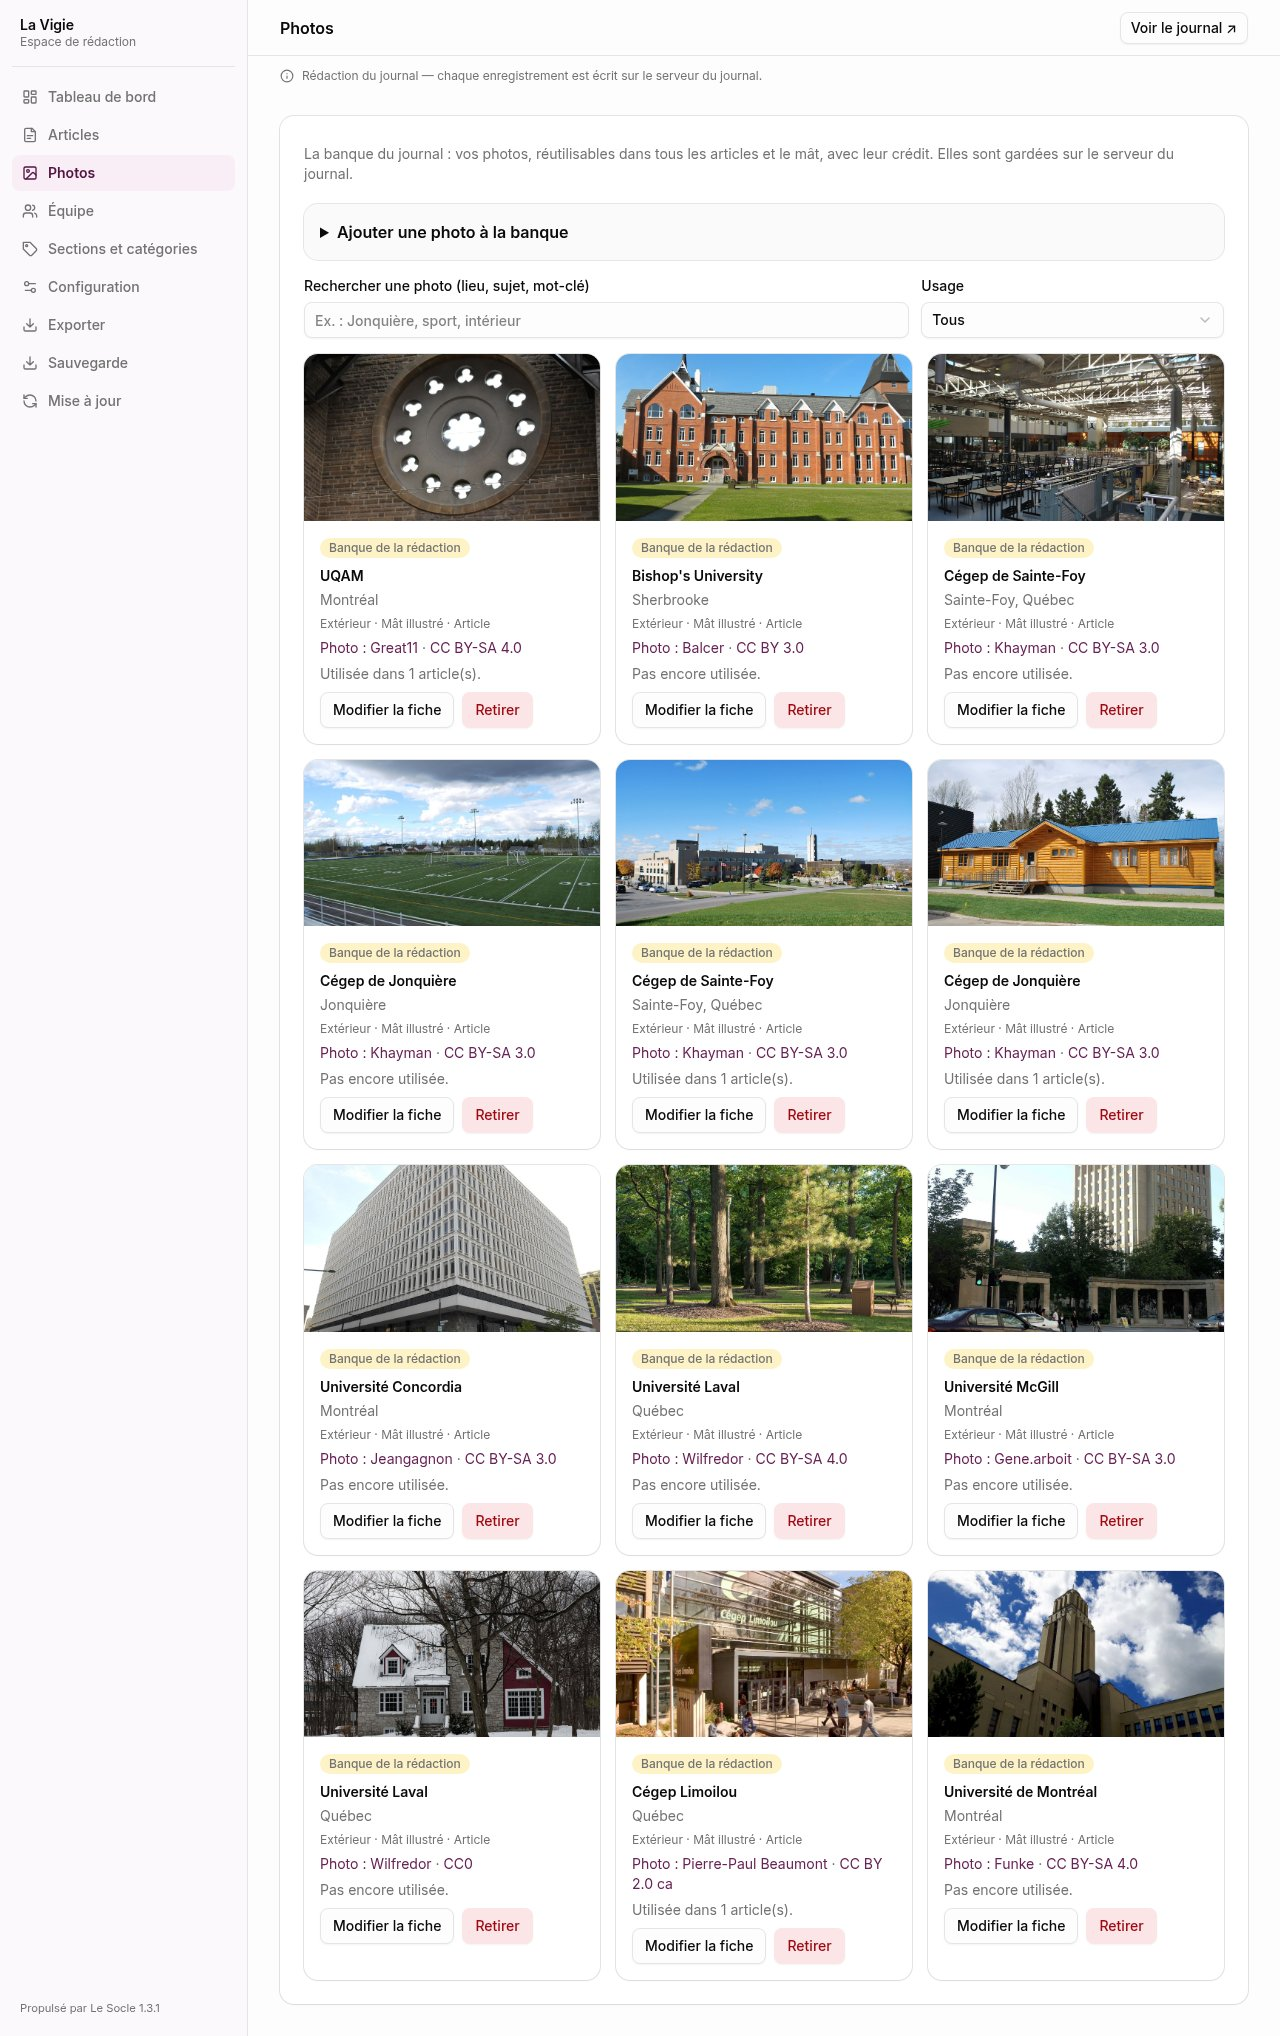
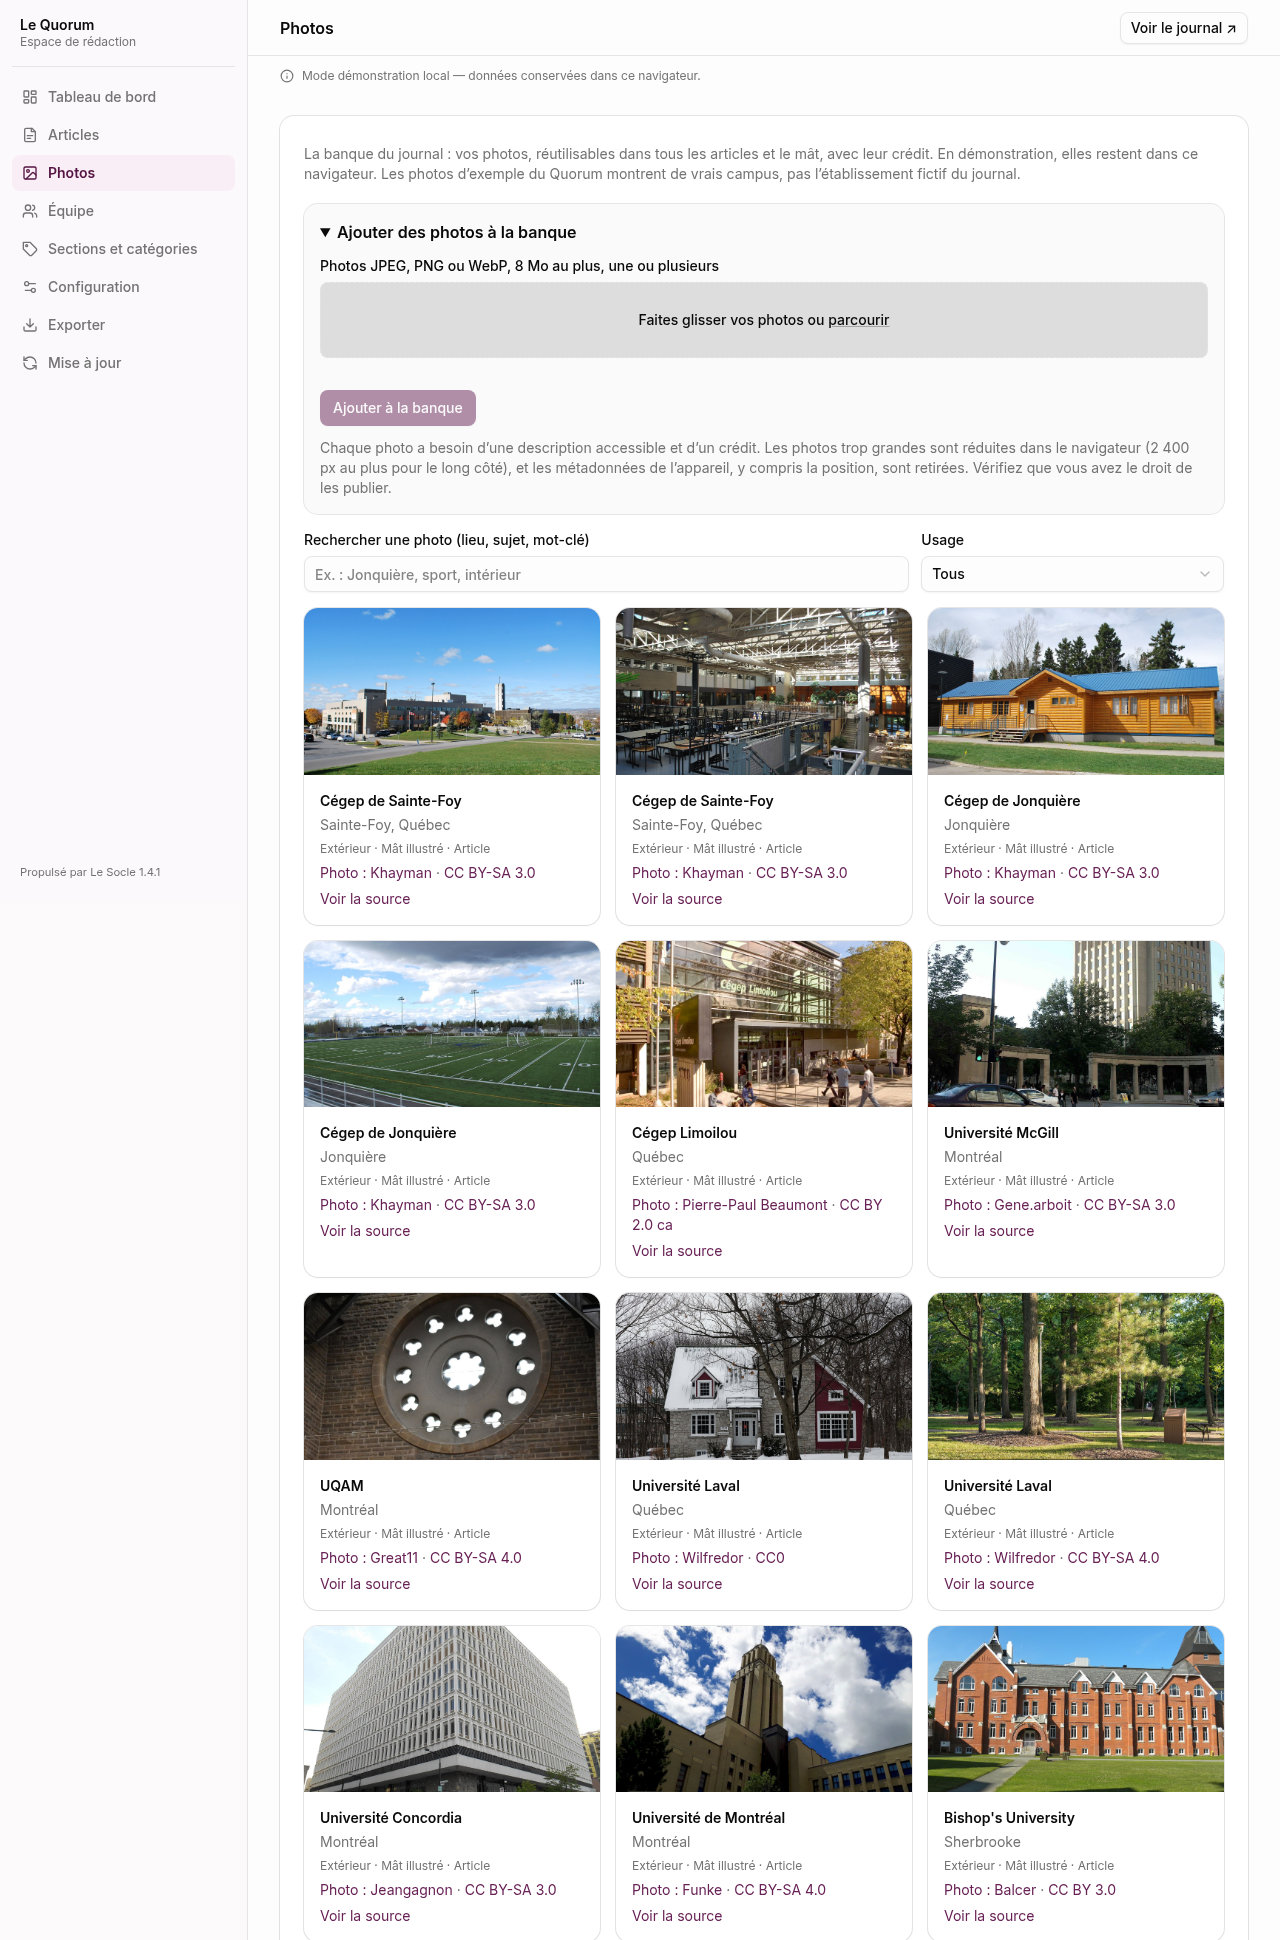
Remplace les captures des pages publiques par des vues fraîches du Quorum
Les images d’accueil, d’article et de l’espace de rédaction viennent de la
démonstration à jour (météo élargie, bandeau sportif, FilePond, Socle 1.4.1).
Les textes de remplacement et le guide parlent du Quorum plutôt que de La Vigie.
Le dossier à déposer chez l’hébergeur est bien kiosque-journal/.

diff --git a/site/index.html b/site/index.html
@@ -70,7 +70,7 @@
         <p class="intro">Il faut un hébergement PHP 8.1 ou plus récent, avec SQLite : le serveur du cégep ou de l’association, un hébergeur habituel, ou un essai gratuit chez alwaysdata. Ni compte GitHub, ni ligne de commande.</p>
         <ol class="steps">
           <li><span class="kbd">1</span><h3>Téléchargez le paquet</h3><p>Un seul fichier, <a href="https://github.com/azdak919/le-kiosque/releases/latest/download/kiosque-journal.zip">kiosque-journal.zip</a>, toujours à la même adresse : la dernière version publiée.</p></li>
-          <li><span class="kbd">2</span><h3>Déposez-le chez l’hébergeur</h3><p>Envoyez le contenu du dossier <code>journal/</code> à la racine de l’espace Web, par exemple dans <code>public_html/</code>. Le site sera à <code>https://votre-journal.com</code>. Un sous-dossier reste possible si vous le souhaitez. Le gestionnaire de fichiers peut souvent extraire le ZIP directement.</p></li>
+          <li><span class="kbd">2</span><h3>Déposez-le chez l’hébergeur</h3><p>Envoyez le contenu du dossier <code>kiosque-journal/</code> à la racine de l’espace Web, par exemple dans <code>public_html/</code>. Le site sera à <code>https://votre-journal.com</code>. Un sous-dossier reste possible si vous le souhaitez. Le gestionnaire de fichiers peut souvent extraire le ZIP directement.</p></li>
           <li><span class="kbd">3</span><h3>Remplissez l’assistant</h3><p>Ouvrez <code>https://votre-journal.com/redaction/</code>. Donnez le nom du journal, les rubriques, un logo au besoin, et créez le compte administrateur.</p></li>
           <li><span class="kbd">4</span><h3>Écrivez, puis publiez</h3><p>L’article paraît tout de suite sur le site. Une sauvegarde se télécharge en un clic ; une mise à jour aussi, quand une version est publiée.</p></li>
         </ol>
@@ -92,6 +92,10 @@
             <figcaption>Le même journal, sur un téléphone.</figcaption>
           </figure>
         </div>
+        <figure class="shot" style="margin-top:1.25rem">
+          <img src="{{BASE_PATH}}/assets/captures/quorum-accueil-sombre.jpg" width="1280" height="800" alt="Page d’accueil du Quorum en mode sombre : mât, barre radio, scores sportifs et fil d’articles." loading="lazy">
+          <figcaption>Le même accueil, en mode sombre.</figcaption>
+        </figure>
         <div class="features">
           <article><h3>Rubriques, recherche et mode sombre</h3><p>Le menu suit les sections du journal. Une loupe cherche dans les titres, les signatures, les rubriques et les extraits déjà affichés. Un bouton passe du mode clair au mode sombre.</p></article>
           <article><h3>Météo, sports et radio</h3><p>Le mât peut afficher la météo locale et les résultats sportifs du campus. La barre radio, facultative, est un module du Radar chargé depuis le-radar.ca : stations, lecteur et style restent chez le Radar.</p></article>
@@ -105,22 +109,22 @@
       <div class="wrap">
         <p class="kicker">L’espace de rédaction</p>
         <h2>Écrire, relire, publier, à plusieurs.</h2>
-        <p class="intro">L’espace de rédaction, c’est le Socle : l’interface d’administration et son serveur, livrés dans le même paquet. Chaque journal installe sa propre copie. Les captures ci-dessous viennent d’un essai, La Vigie, journal étudiant fictif.</p>
+        <p class="intro">L’espace de rédaction, c’est le Socle : l’interface d’administration et son serveur, livrés dans le même paquet. Chaque journal installe sa propre copie. Les captures ci-dessous viennent du Quorum, la démonstration officielle, et de l’assistant d’installation.</p>
         <div class="pair pair--two gallery">
           <figure class="shot shot--tall">
             <img src="{{BASE_PATH}}/assets/captures/assistant-installation.jpg" width="1280" height="1924" alt="Assistant d’installation du journal, avec les champs du nom, des rubriques, de l’apparence et du compte administrateur encore vides." loading="lazy">
             <figcaption>L’assistant d’installation, à la première visite.</figcaption>
           </figure>
           <figure class="shot shot--tall">
-            <img src="{{BASE_PATH}}/assets/captures/editeur-article.jpg" width="1400" height="2312" alt="Formulaire de rédaction d’un article : titre, résumé, rubrique, statut, signatures, photo et texte, avec le bouton Prévisualiser sans publier." loading="lazy">
+            <img src="{{BASE_PATH}}/assets/captures/editeur-article.jpg" width="1400" height="2752" alt="Formulaire de rédaction d’un article du Quorum : titre, résumé, rubrique, statut, signatures, photo principale et texte, avec le bouton Prévisualiser sans publier." loading="lazy">
             <figcaption>L’éditeur d’article, avec un aperçu dans le thème avant publication.</figcaption>
           </figure>
           <figure class="shot shot--tall">
-            <img src="{{BASE_PATH}}/assets/captures/banque-photos.jpg" width="1280" height="2036" alt="Banque de photos de La Vigie, avec crédit et licence sous chaque image." loading="lazy">
+            <img src="{{BASE_PATH}}/assets/captures/banque-photos.jpg" width="1280" height="1940" alt="Banque de photos du Quorum, avec crédit et licence sous chaque image." loading="lazy">
             <figcaption>La banque de photos : crédit obligatoire, licence affichée, réemploi dans tout le journal.</figcaption>
           </figure>
           <figure class="shot shot--tall">
-            <img src="{{BASE_PATH}}/assets/captures/equipe-roles.jpg" width="1280" height="1540" alt="Liste des comptes de La Vigie : administrateur, autrice limitée à certaines rubriques, chef de pupitre et photographe." loading="lazy">
+            <img src="{{BASE_PATH}}/assets/captures/equipe-roles.jpg" width="1280" height="1588" alt="Liste des comptes du Quorum : administrateur, autrice limitée à certaines rubriques, chef de pupitre et photographe, puis les signatures." loading="lazy">
             <figcaption>Les rôles : auteur, photographe, réviseur, chef de pupitre, éditeur, administrateur — avec restriction par rubrique au besoin.</figcaption>
           </figure>
         </div>

diff --git a/site/guide/index.html b/site/guide/index.html
@@ -47,12 +47,12 @@
         <h2>2. Télécharger le paquet</h2>
         <p>Un seul fichier contient le site Web public et l’espace de rédaction :</p>
         <p><a href="https://github.com/azdak919/le-kiosque/releases/latest/download/kiosque-journal.zip">Télécharger kiosque-journal.zip</a> — adresse fixe, dernière version publiée.</p>
-        <p>Décompressez-le : vous obtenez un dossier <code>journal/</code>.</p>
+        <p>Décompressez-le : vous obtenez un dossier <code>kiosque-journal/</code>.</p>
       </article>
 
       <article>
         <h2>3. Le déposer chez l’hébergeur</h2>
-        <p>Envoyez le contenu du dossier <code>journal/</code> à la racine de l’espace Web, par exemple dans <code>public_html/</code>. Gardez les fichiers cachés (<code>.htaccess</code>, <code>.user.ini</code>). Si le gestionnaire sait extraire un ZIP, envoyez le fichier et choisissez Extraire.</p>
+        <p>Envoyez le contenu du dossier <code>kiosque-journal/</code> à la racine de l’espace Web, par exemple dans <code>public_html/</code>. Gardez les fichiers cachés (<code>.htaccess</code>, <code>.user.ini</code>). Si le gestionnaire sait extraire un ZIP, envoyez le fichier et choisissez Extraire.</p>
         <p>Le journal sera à <code>https://votre-journal.com</code>, la rédaction à <code>https://votre-journal.com/redaction/</code>. Un sous-dossier reste possible si vous le souhaitez.</p>
       </article>
 

diff --git a/README.md b/README.md
@@ -33,7 +33,7 @@ Aux équipes de journaux étudiants et de médias de campus qui veulent un site 
 ## Installer un journal
 
 1. **Téléchargez** [`kiosque-journal.zip`](https://github.com/azdak919/le-kiosque/releases/latest/download/kiosque-journal.zip) — toujours la dernière version, à une adresse fixe.
-2. **Déposez** le contenu du dossier `journal/` à la racine de l’espace Web d’un hébergeur **PHP 8.1 ou plus récent, avec SQLite** (serveur du cégep ou de l’association, hébergeur habituel, ou essai gratuit chez [alwaysdata](docs/hebergeur-gratuit.md)). Un sous-dossier reste possible si vous le souhaitez.
+2. **Déposez** le contenu du dossier `kiosque-journal/` à la racine de l’espace Web d’un hébergeur **PHP 8.1 ou plus récent, avec SQLite** (serveur du cégep ou de l’association, hébergeur habituel, ou essai gratuit chez [alwaysdata](docs/hebergeur-gratuit.md)). Un sous-dossier reste possible si vous le souhaitez.
 3. **Ouvrez** `https://votre-journal.com/redaction/` et remplissez l’assistant : nom, rubriques, logo au besoin, compte administrateur. Attendez le message « Le journal est installé ».
 4. **Écrivez**, relisez, publiez. L’article paraît tout de suite. Téléchargez une sauvegarde à chaque fin de session.
 
